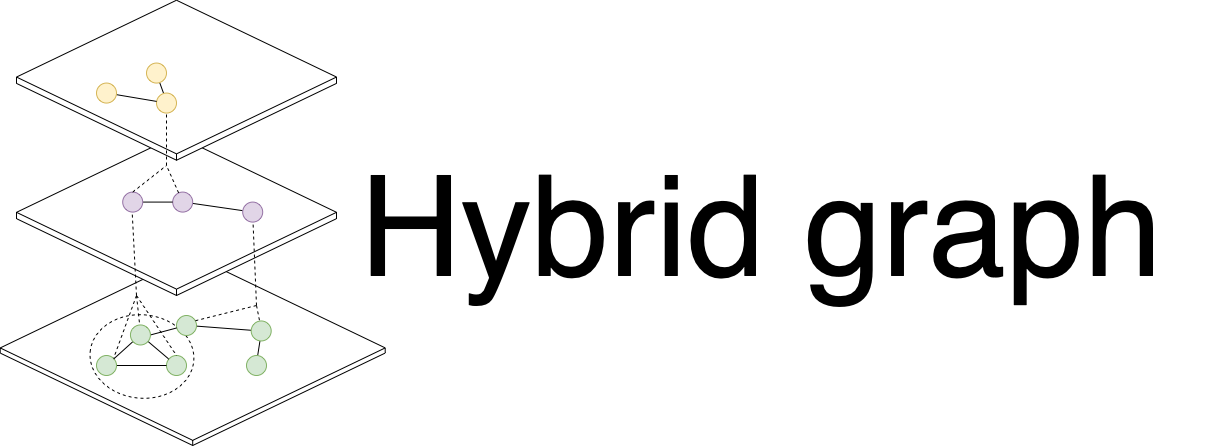
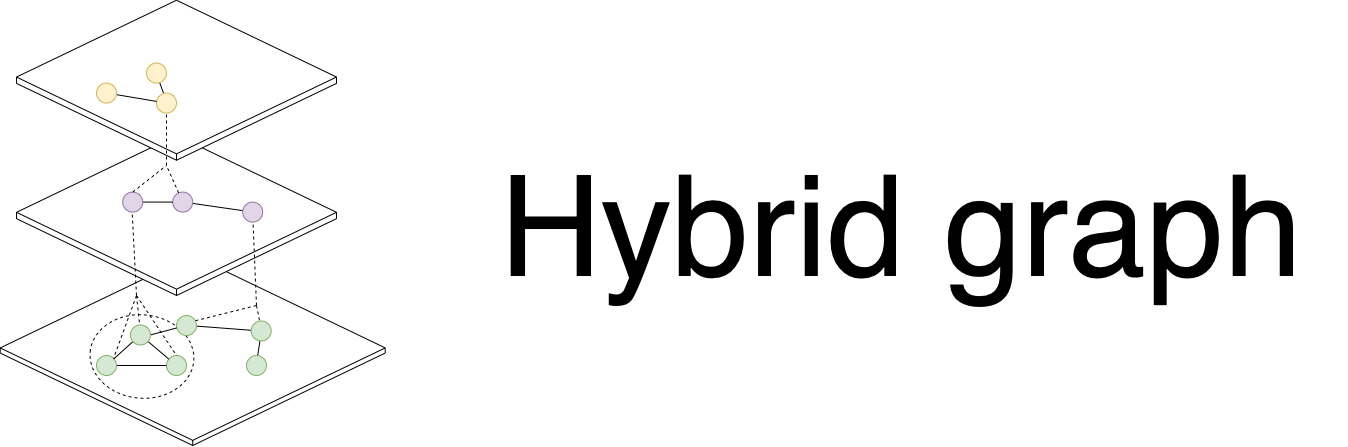
update readme

diff --git a/README.md b/README.md
@@ -4,7 +4,7 @@
 <!-- [![paper](https://img.shields.io/badge/Access-PyTorch%20Geometric-green)](https://pytorch-geometric.readthedocs.io/en/latest/index.html) -->
 
 <!-- ![]() -->
-<img src="https://github.com/Zehui127/hypergraph-benchmarks/blob/pre-release/img/title.png?raw=true" style="width: 90%; height: auto;">
+<img src="https://github.com/Zehui127/hypergraph-benchmarks/blob/pre-release/img/title.png?raw=true" style="width: 70%; height: auto;">
 
 This is a benchmark dataset for evaluating **hybrid-graph** (hypergraph and hierarchical graph) learning algorithms. It contains:
  - 20+ middle-size hypergraphs from the domains of biology, social media, and wikipedia
